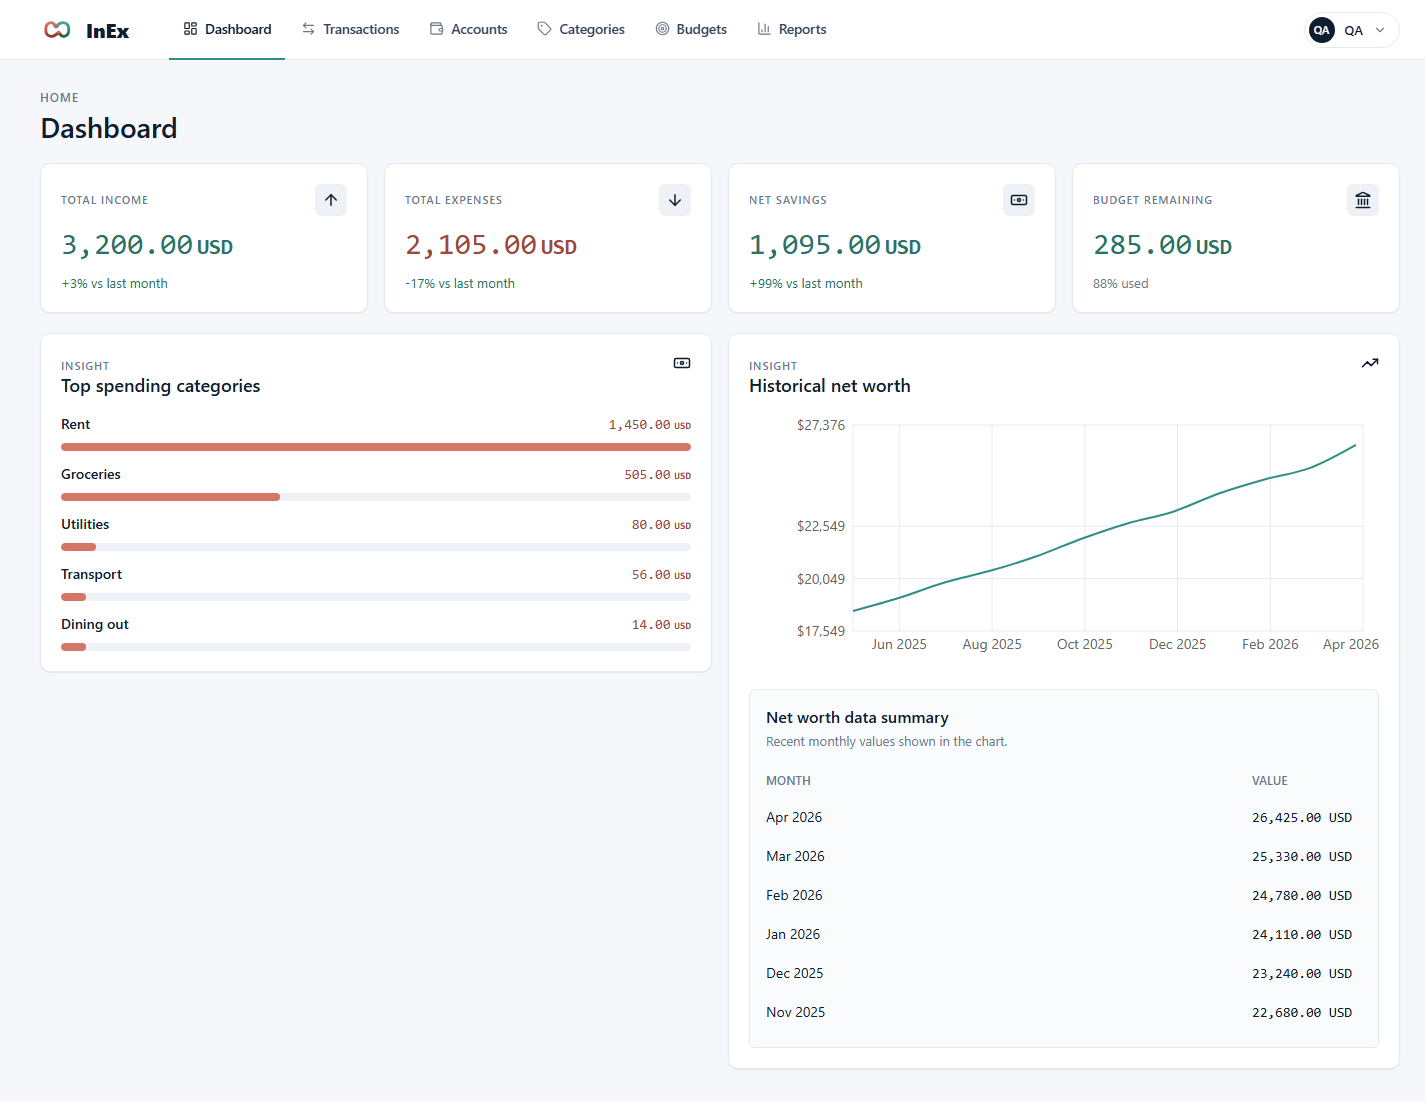
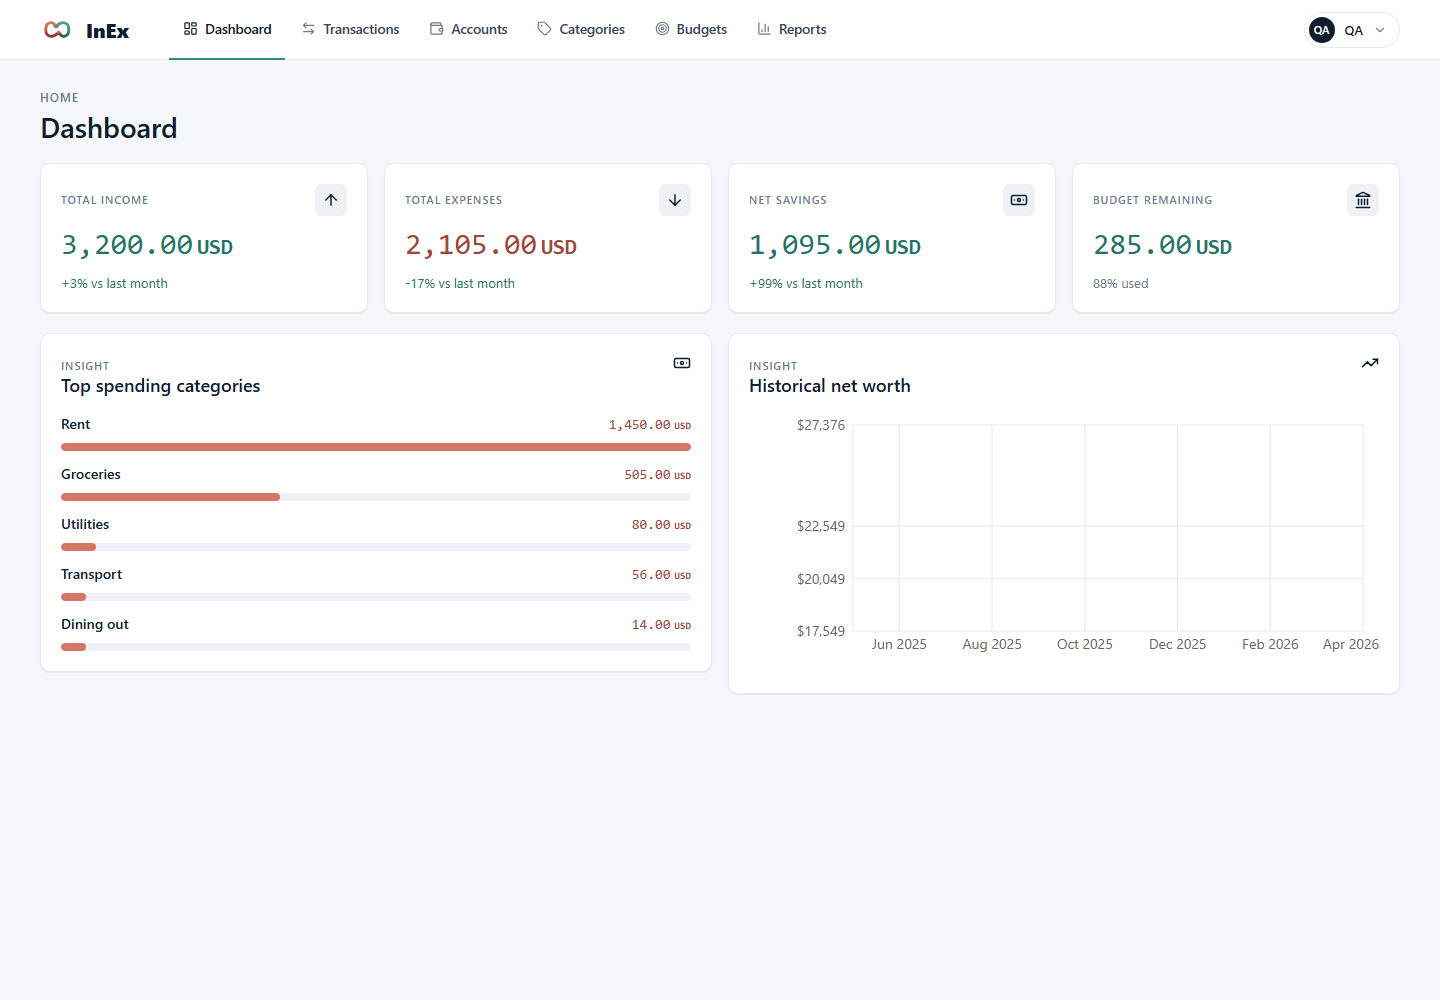
Hide Dashboard net worth summary table

diff --git a/inex/ClientApp/src/pages/Dashboard.tsx b/inex/ClientApp/src/pages/Dashboard.tsx
@@ -17,7 +17,6 @@ import BasicPage from "../layouts/BasicPage";
 import { Num, type MoneyKind } from "../components/primitives";
 import type { BudgetComparisonDTO, BudgetReportResponse, ReportMetadataDTO } from "../model/Report/BudgetReport";
 import type { NetWorthHistoryPoint, NetWorthHistoryResponse } from "../model/Report/NetWorthHistory";
-import ReportAccessibleSummary from "./Reports/ReportAccessibleSummary";
 import { useAppSelector } from "../store/hooks";
 import apiClient from "../utils/apiClient";
 import "./Dashboard/dashboard.css";
@@ -267,11 +266,6 @@ const Dashboard = () => {
         monthLabel: formatMonth(point.month),
     }));
     const netWorthYAxisDomain = useMemo(() => getNetWorthDomain(netWorthHistory), [netWorthHistory]);
-    const netWorthSummaryRows = netWorthHistory.slice(-6).reverse().map((point) => ({
-        key: point.month,
-        label: formatMonth(point.month),
-        value: <Num value={point.netWorth} currency={point.currency || chartCurrency} kind="neutral" />,
-    }));
     const budgetMetrics = useMemo(() => budgetMetricsFromReport(currentBudgetReport), [currentBudgetReport]);
     const topCategories = useMemo(() => {
         const rows = currentBudgetReport?.data ?? [];
@@ -438,66 +432,57 @@ const Dashboard = () => {
                             </div>
                             <TrendingUp size={18} aria-hidden="true" />
                         </div>
-                            {netWorthError && (
-                                <div className="dashboard-alert" role="alert">{netWorthError}</div>
+                        {netWorthError && (
+                            <div className="dashboard-alert" role="alert">{netWorthError}</div>
+                        )}
+                        <Spin spinning={isLoadingNetWorth} tip={t("dashboard.netWorth.loading")}>
+                            {!isLoadingNetWorth && netWorthChartData.length === 0 && !netWorthError ? (
+                                <p className="dashboard-intro">{t("dashboard.netWorth.empty")}</p>
+                            ) : (
+                                <div className="dashboard-chart">
+                                    <ResponsiveContainer width="100%" height="100%">
+                                        <LineChart
+                                            data={netWorthChartData}
+                                            margin={{ top: 12, right: 16, bottom: 12, left: 16 }}
+                                        >
+                                            <CartesianGrid stroke="var(--border-1)" />
+                                            <XAxis
+                                                dataKey="monthLabel"
+                                                tickLine={false}
+                                                axisLine={false}
+                                                minTickGap={16}
+                                            />
+                                            <YAxis
+                                                tickFormatter={(value) => formatMoney(Number(value))}
+                                                tickLine={false}
+                                                axisLine={false}
+                                                domain={netWorthYAxisDomain}
+                                                width={88}
+                                            />
+                                            <Tooltip
+                                                labelFormatter={(_, payload) => {
+                                                    const point = payload?.[0]?.payload as NetWorthHistoryPoint | undefined;
+                                                    return point ? formatMonth(point.month) : "";
+                                                }}
+                                                formatter={(value) => [
+                                                    formatMoney(Number(value), 2),
+                                                    t("dashboard.netWorth.valueLabel"),
+                                                ]}
+                                            />
+                                            <Line
+                                                type="monotone"
+                                                dataKey="netWorth"
+                                                name={t("dashboard.netWorth.valueLabel")}
+                                                stroke="var(--income-500)"
+                                                strokeWidth={2}
+                                                dot={{ r: 3 }}
+                                                activeDot={{ r: 5 }}
+                                            />
+                                        </LineChart>
+                                    </ResponsiveContainer>
+                                </div>
                             )}
-                            <Spin spinning={isLoadingNetWorth} tip={t("dashboard.netWorth.loading")}>
-                                {!isLoadingNetWorth && netWorthChartData.length === 0 && !netWorthError ? (
-                                    <p className="dashboard-intro">{t("dashboard.netWorth.empty")}</p>
-                                ) : (
-                                    <div className="dashboard-chart">
-                                        <ResponsiveContainer width="100%" height="100%">
-                                            <LineChart
-                                                data={netWorthChartData}
-                                                margin={{ top: 12, right: 16, bottom: 12, left: 16 }}
-                                            >
-                                                <CartesianGrid stroke="var(--border-1)" />
-                                                <XAxis
-                                                    dataKey="monthLabel"
-                                                    tickLine={false}
-                                                    axisLine={false}
-                                                    minTickGap={16}
-                                                />
-                                                <YAxis
-                                                    tickFormatter={(value) => formatMoney(Number(value))}
-                                                    tickLine={false}
-                                                    axisLine={false}
-                                                    domain={netWorthYAxisDomain}
-                                                    width={88}
-                                                />
-                                                <Tooltip
-                                                    labelFormatter={(_, payload) => {
-                                                        const point = payload?.[0]?.payload as NetWorthHistoryPoint | undefined;
-                                                        return point ? formatMonth(point.month) : "";
-                                                    }}
-                                                    formatter={(value) => [
-                                                        formatMoney(Number(value), 2),
-                                                        t("dashboard.netWorth.valueLabel"),
-                                                    ]}
-                                                />
-                                                <Line
-                                                    type="monotone"
-                                                    dataKey="netWorth"
-                                                    name={t("dashboard.netWorth.valueLabel")}
-                                                    stroke="var(--income-500)"
-                                                    strokeWidth={2}
-                                                    dot={{ r: 3 }}
-                                                    activeDot={{ r: 5 }}
-                                                />
-                                            </LineChart>
-                                        </ResponsiveContainer>
-                                    </div>
-                                )}
-                            </Spin>
-                            {netWorthSummaryRows.length > 0 && (
-                                <ReportAccessibleSummary
-                                    title={t("dashboard.netWorth.summaryTitle")}
-                                    caption={t("dashboard.netWorth.summaryCaption")}
-                                    labelHeader={t("reports.month")}
-                                    valueHeader={t("reports.summaryValue")}
-                                    rows={netWorthSummaryRows}
-                                />
-                            )}
+                        </Spin>
                     </section>
                 </div>
             </div>
